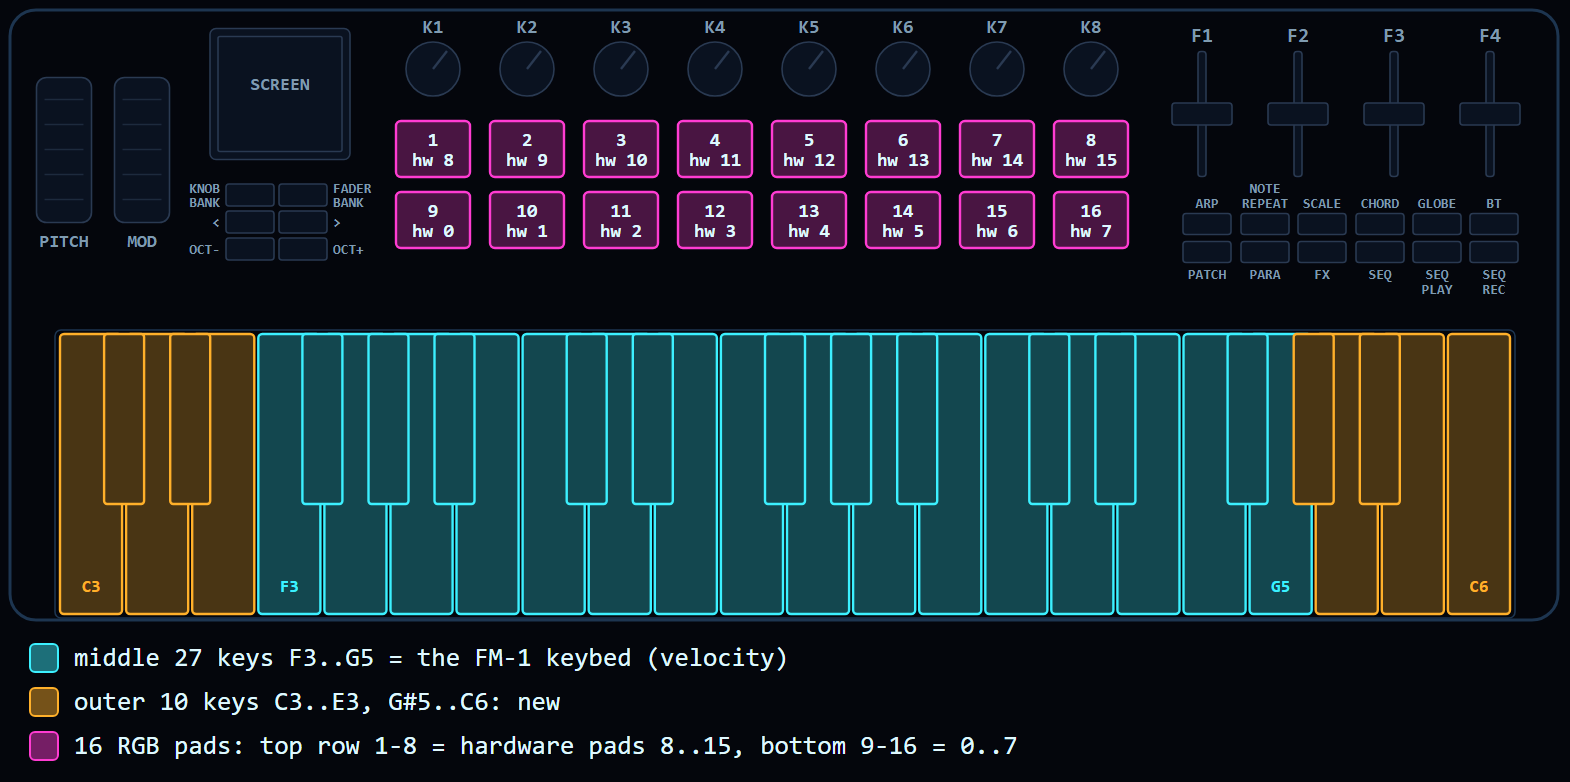
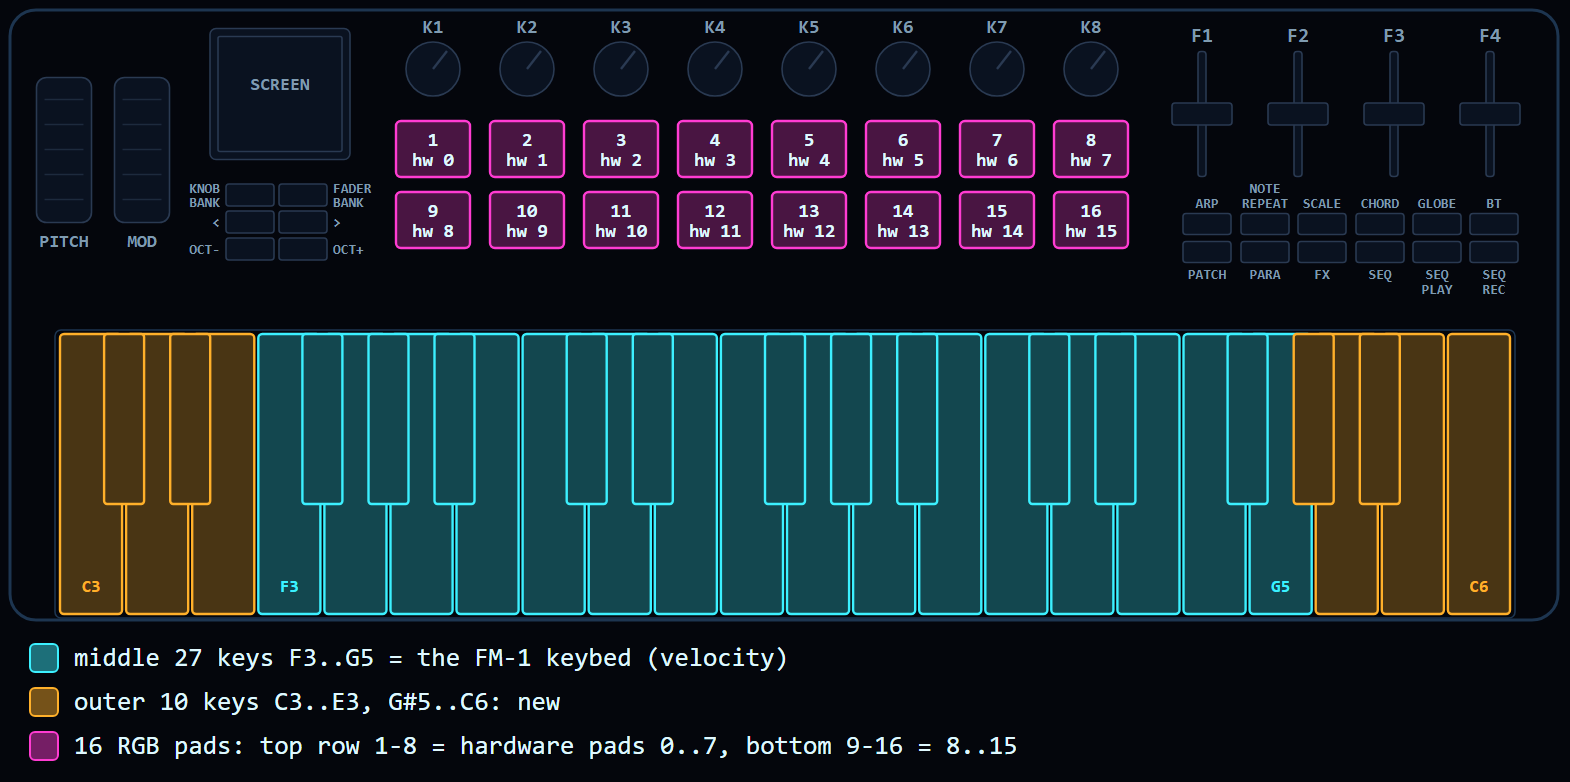
One pad numbering: top row = hardware pads 0..7, bottom = 8..15 (verified), the same index for hits and LEDs; docs, panel map and tables

diff --git a/tools/make_panels.py b/tools/make_panels.py
@@ -33,7 +33,7 @@ def controls():
         c[k] = ("btn", 323 if i & 1 else 270, 323 + (i >> 1) * 27, 48, 22, n)
     for i in range(8):
         c[f"k{i + 1}"] = ("knob", 453 + i * 94, 197, 60, 60, f"K{i + 1}")
-    for i in range(16):                                     # p1..p8 top row (hardware pads 8..15), p9..p16 bottom (0..7)
+    for i in range(16):                                     # p1..p8 top row (hardware pads 0..7), p9..p16 bottom (8..15)
         c[f"p{i + 1}"] = ("pad", 453 + (i % 8) * 94, 277 if i < 8 else 348, 74, 56, str(i + 1))
     for j in range(4):
         c[f"f{j + 1}"] = ("fader", 1222 + j * 96, 242, 75, 125, f"F{j + 1}")
@@ -190,14 +190,14 @@ def patterns():
     # the full map
     lit = {}
     for i in range(16):
-        hw = 8 + i if i < 8 else i - 8
+        hw = i
         lit[f"p{i + 1}"] = (MG, f"{i + 1}" + chr(10) + f"hw {hw}")
     kf = core_keys(CY) | outer_keys(AM, AM)
     kf |= {0: (AM, "C3"), 5: (CY, "F3"), 31: (CY, "G5"), 36: (AM, "C6")}
     P["panel"] = panel(lit, kf, names=True, legend=[
         (CY, "middle 27 keys F3..G5 = the FM-1 keybed (velocity)"),
         (AM, "outer 10 keys C3..E3, G#5..C6: new"),
-        (MG, "16 RGB pads: top row 1-8 = hardware pads 8..15, bottom 9-16 = 0..7")])
+        (MG, "16 RGB pads: top row 1-8 = hardware pads 0..7, bottom 9-16 = 8..15")])
 
     # keys: the FM-1 range in the middle, the outer ten extend it
     kf = core_keys(CY) | outer_keys(AM, AM, ["kick", "", "snr", "", "hat"], ["cow", "", "oh", "crs", "ride"])

diff --git a/docs/04-controls-mapping.md b/docs/04-controls-mapping.md
@@ -54,16 +54,20 @@ The SMK's extra controls (outer keys, faders, wheels, spare buttons) add to that
 | 27 keys F3..G5 | notes; in layers: tiles (steps, effects, mix, ...) | middle 27 keys F3..G5 | the same, with velocity |
 | none | | lowest 5 keys C3..E3 | synth tracks: notes. Drum track: C3 kick, D3 snare, E3 hi-hat (a black key plays its left white neighbour). |
 | none | | highest 5 keys G#5..C6 | synth tracks: notes. Drum track: G#5 cowbell, A5 open hi-hat, B5 crash, C6 ride. |
-| LEDs under the 27 keys | what is on or playing | 16 RGB pads | the pads are the 16 **white** keys (top row 1..8, bottom row 9..16), with velocity. Lit in the screen's track colours (blue, green, yellow, orange): steps lit, playhead and hits bright, off is dark. SEL layer: piano layout. SAVE layer: used slots green, free slots white. |
+| LEDs under the 27 keys | what is on or playing | 16 RGB pads | the pads are the 16 **white** keys (as steps and tiles: top row 1..8, bottom row 9..16), with velocity. Lit in the screen's track colours (blue, green, yellow, orange): steps lit, playhead and hits bright, off is dark. SEL layer: piano layout. SAVE layer: used slots green, free slots white. |
 
-White key to pad:
+White key to pad. Hardware pads 0..7 are the top row, 8..15 the bottom row ([01-hardware.md](01-hardware.md), 6.3).
+Snoop37 uses two orders: as a step grid or tiles the pads read like text; as a keyboard the low notes are at the
+bottom.
 
 | White key | F3 | G3 | A3 | B3 | C4 | D4 | E4 | F4 | G4 | A4 | B4 | C5 | D5 | E5 | F5 | G5 |
 |---|---|---|---|---|---|---|---|---|---|---|---|---|---|---|---|---|
-| Position | top 1 | top 2 | top 3 | top 4 | top 5 | top 6 | top 7 | top 8 | bottom 1 | bottom 2 | bottom 3 | bottom 4 | bottom 5 | bottom 6 | bottom 7 | bottom 8 |
-| Hardware pad | 8 | 9 | 10 | 11 | 12 | 13 | 14 | 15 | 0 | 1 | 2 | 3 | 4 | 5 | 6 | 7 |
+| Step grid, tiles | top 1 | top 2 | top 3 | top 4 | top 5 | top 6 | top 7 | top 8 | bottom 1 | bottom 2 | bottom 3 | bottom 4 | bottom 5 | bottom 6 | bottom 7 | bottom 8 |
+| Hardware pad (grid) | 0 | 1 | 2 | 3 | 4 | 5 | 6 | 7 | 8 | 9 | 10 | 11 | 12 | 13 | 14 | 15 |
+| Keyboard | bottom 1 | bottom 2 | bottom 3 | bottom 4 | bottom 5 | bottom 6 | bottom 7 | bottom 8 | top 1 | top 2 | top 3 | top 4 | top 5 | top 6 | top 7 | top 8 |
+| Hardware pad (keyboard) | 8 | 9 | 10 | 11 | 12 | 13 | 14 | 15 | 0 | 1 | 2 | 3 | 4 | 5 | 6 | 7 |
 
-Piano layout (on request of the UI): the bottom row plays C4 D4 E4 F4 G4 A4 B4 C5, and the top row the black keys
+Piano layout (on request of the UI): the top row plays C4 D4 E4 F4 G4 A4 B4 C5, and the bottom row the black keys
 between them (C#4 D#4, gap, F#4 G#4 A#4, gap, C#5).
 
 ## Power-on and special combos

diff --git a/docs/03-porting-steps.md b/docs/03-porting-steps.md
@@ -139,7 +139,7 @@ it like this. Full tables are in [04-controls-mapping.md](04-controls-mapping.md
 |---|---|---|
 | keys 5..31 (F3..G5, the middle 27) | the FM-1's 27 note keys, with velocity | `smk_input.h` sets note bits 0..26 from keybed keys 5..31 |
 | keys 0..4 and 32..36 (C3..E3, G#5..C6) | extra notes on synth tracks, extra drum sounds on the drum track | a separate event queue (`smk_extkey_take`), handled in the UI |
-| 16 pads | the 16 **white** keys of the 27 (F3 G3 A3 B3 C4 D4 E4 F4 / G4 A4 B4 C5 D5 E5 F5 G5) | top row (hardware pads 8..15) = white keys 1..8, bottom row (pads 0..7) = 9..16; the pad sets the same note bit as the key |
+| 16 pads | the 16 **white** keys of the 27 (F3 G3 A3 B3 C4 D4 E4 F4 / G4 A4 B4 C5 D5 E5 F5 G5) | top row (hardware pads 0..7) = white keys 1..8 in a step grid; as a keyboard, low notes at the bottom (pads 8..15). Convert in one place (`SMK_PAD_OF_WHITE`); the pad sets the same note bit as the key |
 | pad LEDs | what the FM-1 key LEDs showed: steps, playhead, layer tiles, in the track colour | drawn from the UI state once per frame |
 | piano layout on the pads (optional) | for scale or key pages | bottom row C4..C5 white, top row the black keys between them |
 | K1..K8 | K1 MASTER (virtual pot), K2 SELECT, K3 ALGORITHM, K4 PRESETS, K5..K8 KNOB 1..4 | SLOOP's panel table (function to hardware id) |
@@ -183,8 +183,8 @@ The reference build writes `build/sloop-smk37.fwsc` (identity `SMK-37 Pro_900`).
 | Check | Console / action | Expected |
 |---|---|---|
 | ADC runs | `smk`: `adc_ok` rises, `adc_miss` stays near 0 | if `adc_miss` rises, the ADC timing is wrong |
-| Pads | `smk`: `pad raw` and `pad base` per pad | idle near the baseline, a hit well above it; the top row is pads 8..15 |
-| Pad LED colours and order | `padtest` | the first four pads of the top row, from the left: red, green, blue, white (for 20 s) |
+| Pads | `smk`: `pad raw` and `pad base` per pad | idle near the baseline, a hit well above it; the top row is pads 0..7 |
+| Pad LED colours and order | `padtest` | hardware pads 8..11 light red, green, blue, white (for 20 s): the first four of the **bottom** row (some console texts say "top row"; trust the unit) |
 | Pad LED state | `leds` | the colour word the firmware holds for each pad |
 | Faders | `smk`: `fader raw` and `fader` | raw 0..1023, value 0..127, both ends reachable |
 | Wheels | `smk`: `wheel0`, `wheel1`, `bend`, `modw` | pitch rests around 535, mod moves the other way (up = lower raw) |

diff --git a/docs/01-hardware.md b/docs/01-hardware.md
@@ -329,8 +329,19 @@ conversion it also clears bit 14 of register `0x11900`, as the stock firmware do
 
 16 force-sensitive pads with velocity and pressure.
 
-- **Physical layout: the top row is hardware pads 8..15 (mux B), the bottom row is pads 0..7 (mux A)**, both
-  left to right. Status: **verified**.
+- **Physical layout: the top row is hardware pads 0..7 (mux A), the bottom row is pads 8..15 (mux B)**, both
+  left to right. Status: **verified** with `padtest` on a unit (2026-10-10). Earlier notes, console texts and
+  comments in some layers say the opposite; they are wrong.
+- One number for each pad: the hardware pad index is the same for the analog reading (the muxes) and for the LED
+  (through the chain-slot table in section 4). Count in this index everywhere and convert to reading order in one
+  place (the HAL's `SMK_PAD_OF_WHITE` / `SMK_WHITE_OF_PAD`).
+
+| Position | top 1 | top 2 | top 3 | top 4 | top 5 | top 6 | top 7 | top 8 | bottom 1 | bottom 2 | bottom 3 | bottom 4 | bottom 5 | bottom 6 | bottom 7 | bottom 8 |
+|---|---|---|---|---|---|---|---|---|---|---|---|---|---|---|---|---|
+| Reading order (kit) | 1 | 2 | 3 | 4 | 5 | 6 | 7 | 8 | 9 | 10 | 11 | 12 | 13 | 14 | 15 | 16 |
+| Hardware pad (ADC and LED) | 0 | 1 | 2 | 3 | 4 | 5 | 6 | 7 | 8 | 9 | 10 | 11 | 12 | 13 | 14 | 15 |
+| Mux | A | A | A | A | A | A | A | A | B | B | B | B | B | B | B | B |
+| LED chain slot | 0 | 15 | 14 | 13 | 12 | 11 | 10 | 9 | 1 | 2 | 3 | 4 | 5 | 6 | 7 | 8 |
 - Each pad has a slowly tracking baseline (start at 100; step down by 1 when the reading is below it; step up by
   2 while below the pad curve's first point).
 - The reference port: a hit starts at baseline + 24. The peak of the next 3 samples goes through the pad's

diff --git a/docs/06-mapping-patterns.md b/docs/06-mapping-patterns.md
@@ -6,8 +6,9 @@ group, write the choice into [`smk37-port.yaml`](../smk37-port.yaml), then imple
 
 ![The SMK-37 Pro panel](../assets/smk37-panel.png)
 
-Pad numbers in this guide are in reading order: pads 1-8 are the top row (hardware pads 8..15), pads 9-16 the
-bottom row (hardware pads 0..7). The diagrams are drawn by `tools/make_panels.py`.
+Pad numbers in this guide are in reading order: pads 1-8 are the top row (hardware pads 0..7), pads 9-16 the
+bottom row (hardware pads 8..15). The hardware index is the same for hits and LEDs; see
+[01-hardware.md](01-hardware.md), 6.3. The diagrams are drawn by `tools/make_panels.py`.
 
 **The base rule:** every FM-1 control keeps a home on the SMK, so the firmware's manual still applies. The extra
 controls add to that and never take something away. A new firmware (no FM-1 manual to keep) can drop this rule.
@@ -52,7 +53,7 @@ white neighbour.
 ![Pads as steps](../assets/panel/pads-steps.svg)
 
 The 16 pads are the FM-1's 16 white keys F3..G5, in **reading order**: steps 1-8 on the top row, 9-16 on the
-bottom. The hardware numbers the bottom row first, so map top row = hardware pads 8..15. Pads light in the
+bottom (hardware pads 0..7 and 8..15). Convert in one place, for hits and LEDs alike. Pads light in the
 screen's track colours: steps that are on are lit, the playhead and hits bright, off is dark (no glow layers).
 Pads play with velocity.
 

diff --git a/docs/08-pitfalls.md b/docs/08-pitfalls.md
@@ -34,7 +34,7 @@ Things that went wrong in earlier ports, and the fix. Check this list before ste
 | Pitfall | Fix |
 |---|---|
 | Newer WS2812 parts need a longer reset than the stock firmware sends; a glitch shifts the chain and a pad lights its neighbour. | Send a long reset (about 250 bytes of zeros) before each pad LED frame. |
-| Pad and LED numbering does not match reading order (the hardware's bottom row is pads 0..7). | Map once, in the board layer: pads 1-8 top = hardware 8..15. |
+| Docs, comments and console texts disagreed on which row is which. | Verified on a unit: top row = hardware pads 0..7, bottom = 8..15, the same index for hits and LEDs ([01-hardware.md](01-hardware.md), 6.3). Convert in one place; check with `padtest` and `smk` at bring-up. |
 | Two-colour button LEDs: one LED index is the other half of a neighbour (SEQ PLAY's red half). | Take LED indices from the reference series, confirmed on a unit. |
 | The SMK gives no VBUS on its USB-C port. | USB host experiments need a powered hub or an external 5 V supply. |
 | Faders and wheels are noisy near the ends. | A dead band of +-1 step, ends reachable; wheels self-calibrate from the power-on centre. |

diff --git a/AGENTS.md b/AGENTS.md
@@ -105,7 +105,7 @@ Implement `smk37-port.yaml`, using the patterns in [docs/06-mapping-patterns.md]
 Default order:
 
 1. Middle 27 keys (keybed 5..31) = the FM-1 note keys, with velocity from the unit's factory curves.
-2. The 16 pads as decided (default: the FM-1's 16 white keys in reading order, top row = hardware pads 8..15).
+2. The 16 pads as decided (default: the FM-1's 16 white keys in reading order, top row = hardware pads 0..7).
 3. Pad LEDs show what the FM-1 key LEDs showed, in the screen's colours.
 4. Buttons and knobs by printed name; K1 is the virtual MASTER pot; one encoder step per detent.
 5. The extras: outer keys, faders (soft takeover), wheels (self-calibrating).

diff --git a/docs/07-develop-for-both.md b/docs/07-develop-for-both.md
@@ -22,7 +22,7 @@ enough:
 /* board_caps.h: one place that says what the panel has (values for the SMK-37 Pro / the FM-1) */
 #if BOARD_SMK37
 #define CAP_KEYS        37    /* velocity keys; the FM-1 range is keys 5..31 */
-#define CAP_PADS        16    /* RGB pads, reading order 0..15 = hardware 8..15, 0..7 */
+#define CAP_PADS        16    /* RGB pads; hardware 0..7 top row, 8..15 bottom */
 #define CAP_FADERS       4
 #define CAP_WHEELS       2
 #define CAP_OUTER_KEYS  10
